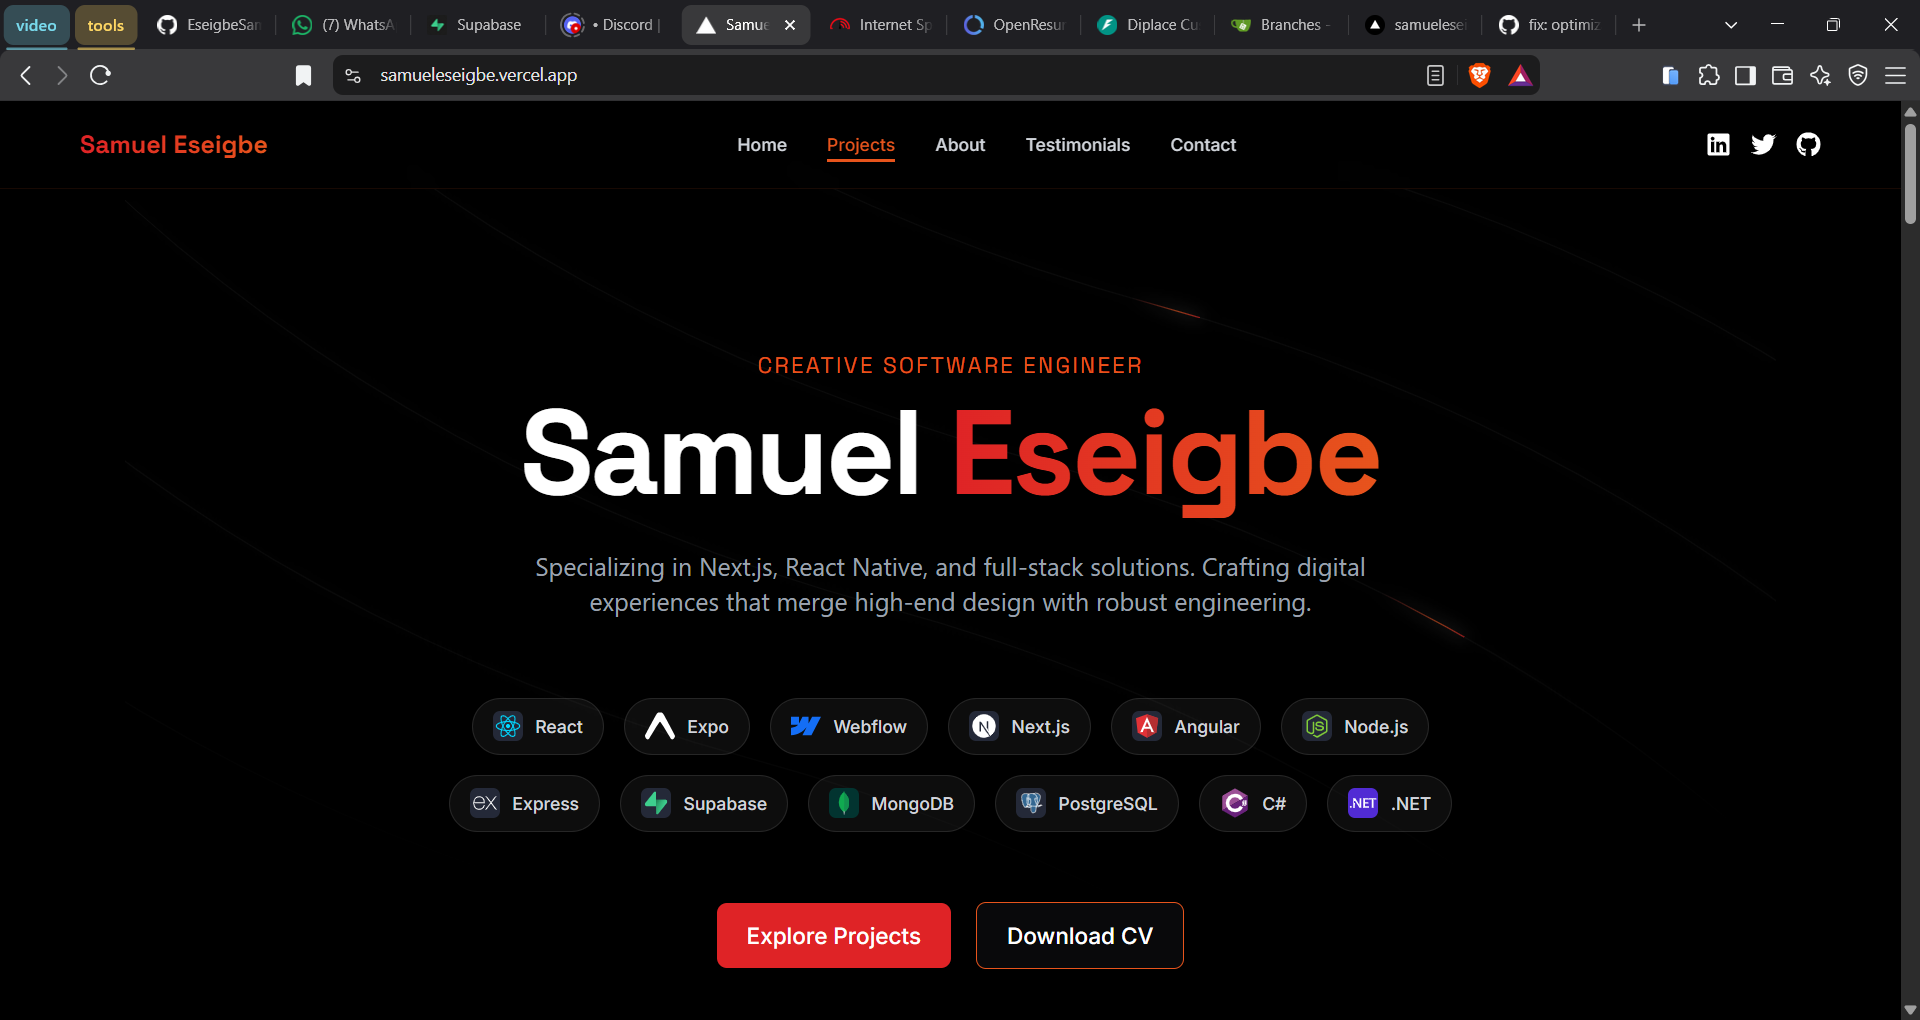
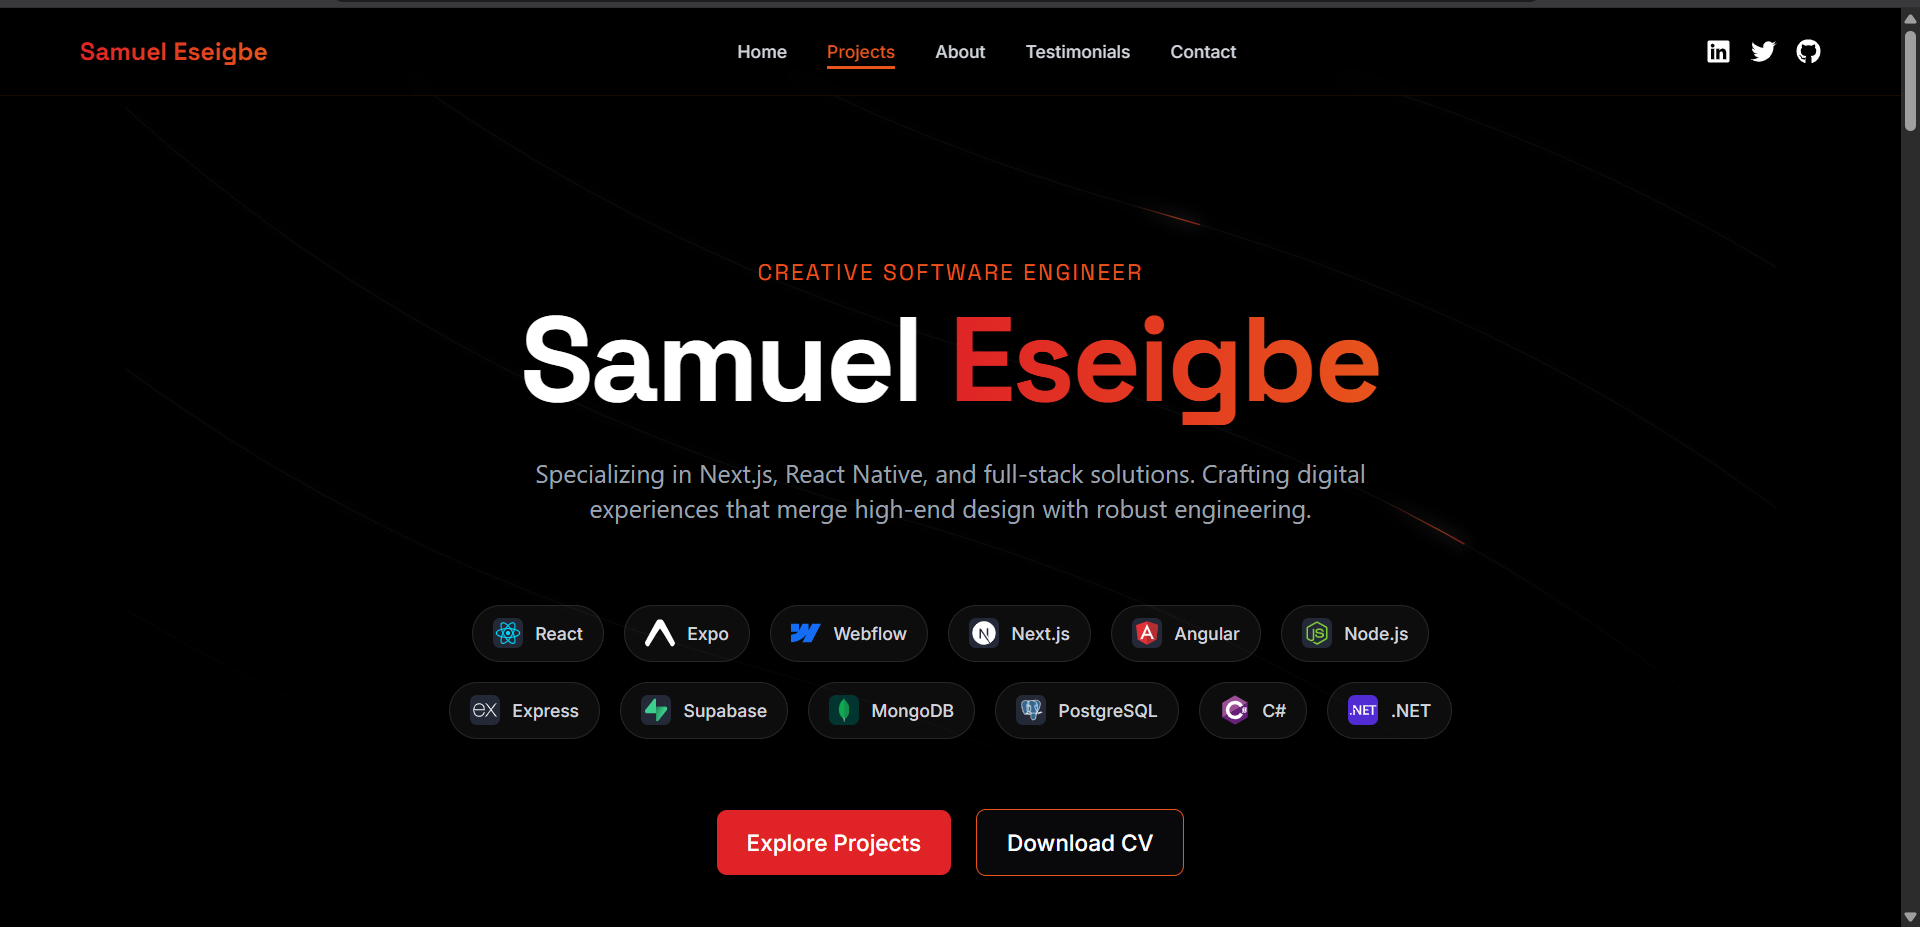
fix: ui changes

diff --git a/src/data/data.tsx b/src/data/data.tsx
@@ -214,8 +214,8 @@ interface expProps {
 
 export const Exp: expProps[] = [
   {
-    title: "Software developer",
-    place: "elsoft tech hub",
+    title: "Software Engineer",
+    place: "Elsoft Tech Hub",
     date: "january 2025 - present",
     desc: "Contributed developed and delivered responsive, user-centric web and mobile applications. ",
     features: [
@@ -227,8 +227,8 @@ export const Exp: expProps[] = [
     ],
   },
   {
-    title: "frontend developer intern",
-    place: "veegel technology limited",
+    title: "Frontend Developer Intern",
+    place: "Veegel Technology Limited",
     date: "june 2024 - december 2024 ",
     desc: "Contributed to the development of a cybersecurity compliance web application using React.",
     features: [
@@ -239,8 +239,8 @@ export const Exp: expProps[] = [
     ],
   },
   {
-    title: "web development instructor",
-    place: "BAFUTO institute of information and technology",
+    title: "Web Development Instructor",
+    place: "BAFUTO Institute of Management and Information Technology",
     date: "march 2023 - may 2024",
     desc: "Mentored and guided 20+ students through the fundamentals of web development, covering HTML, CSS, JavaScript, and React.",
     features: [
